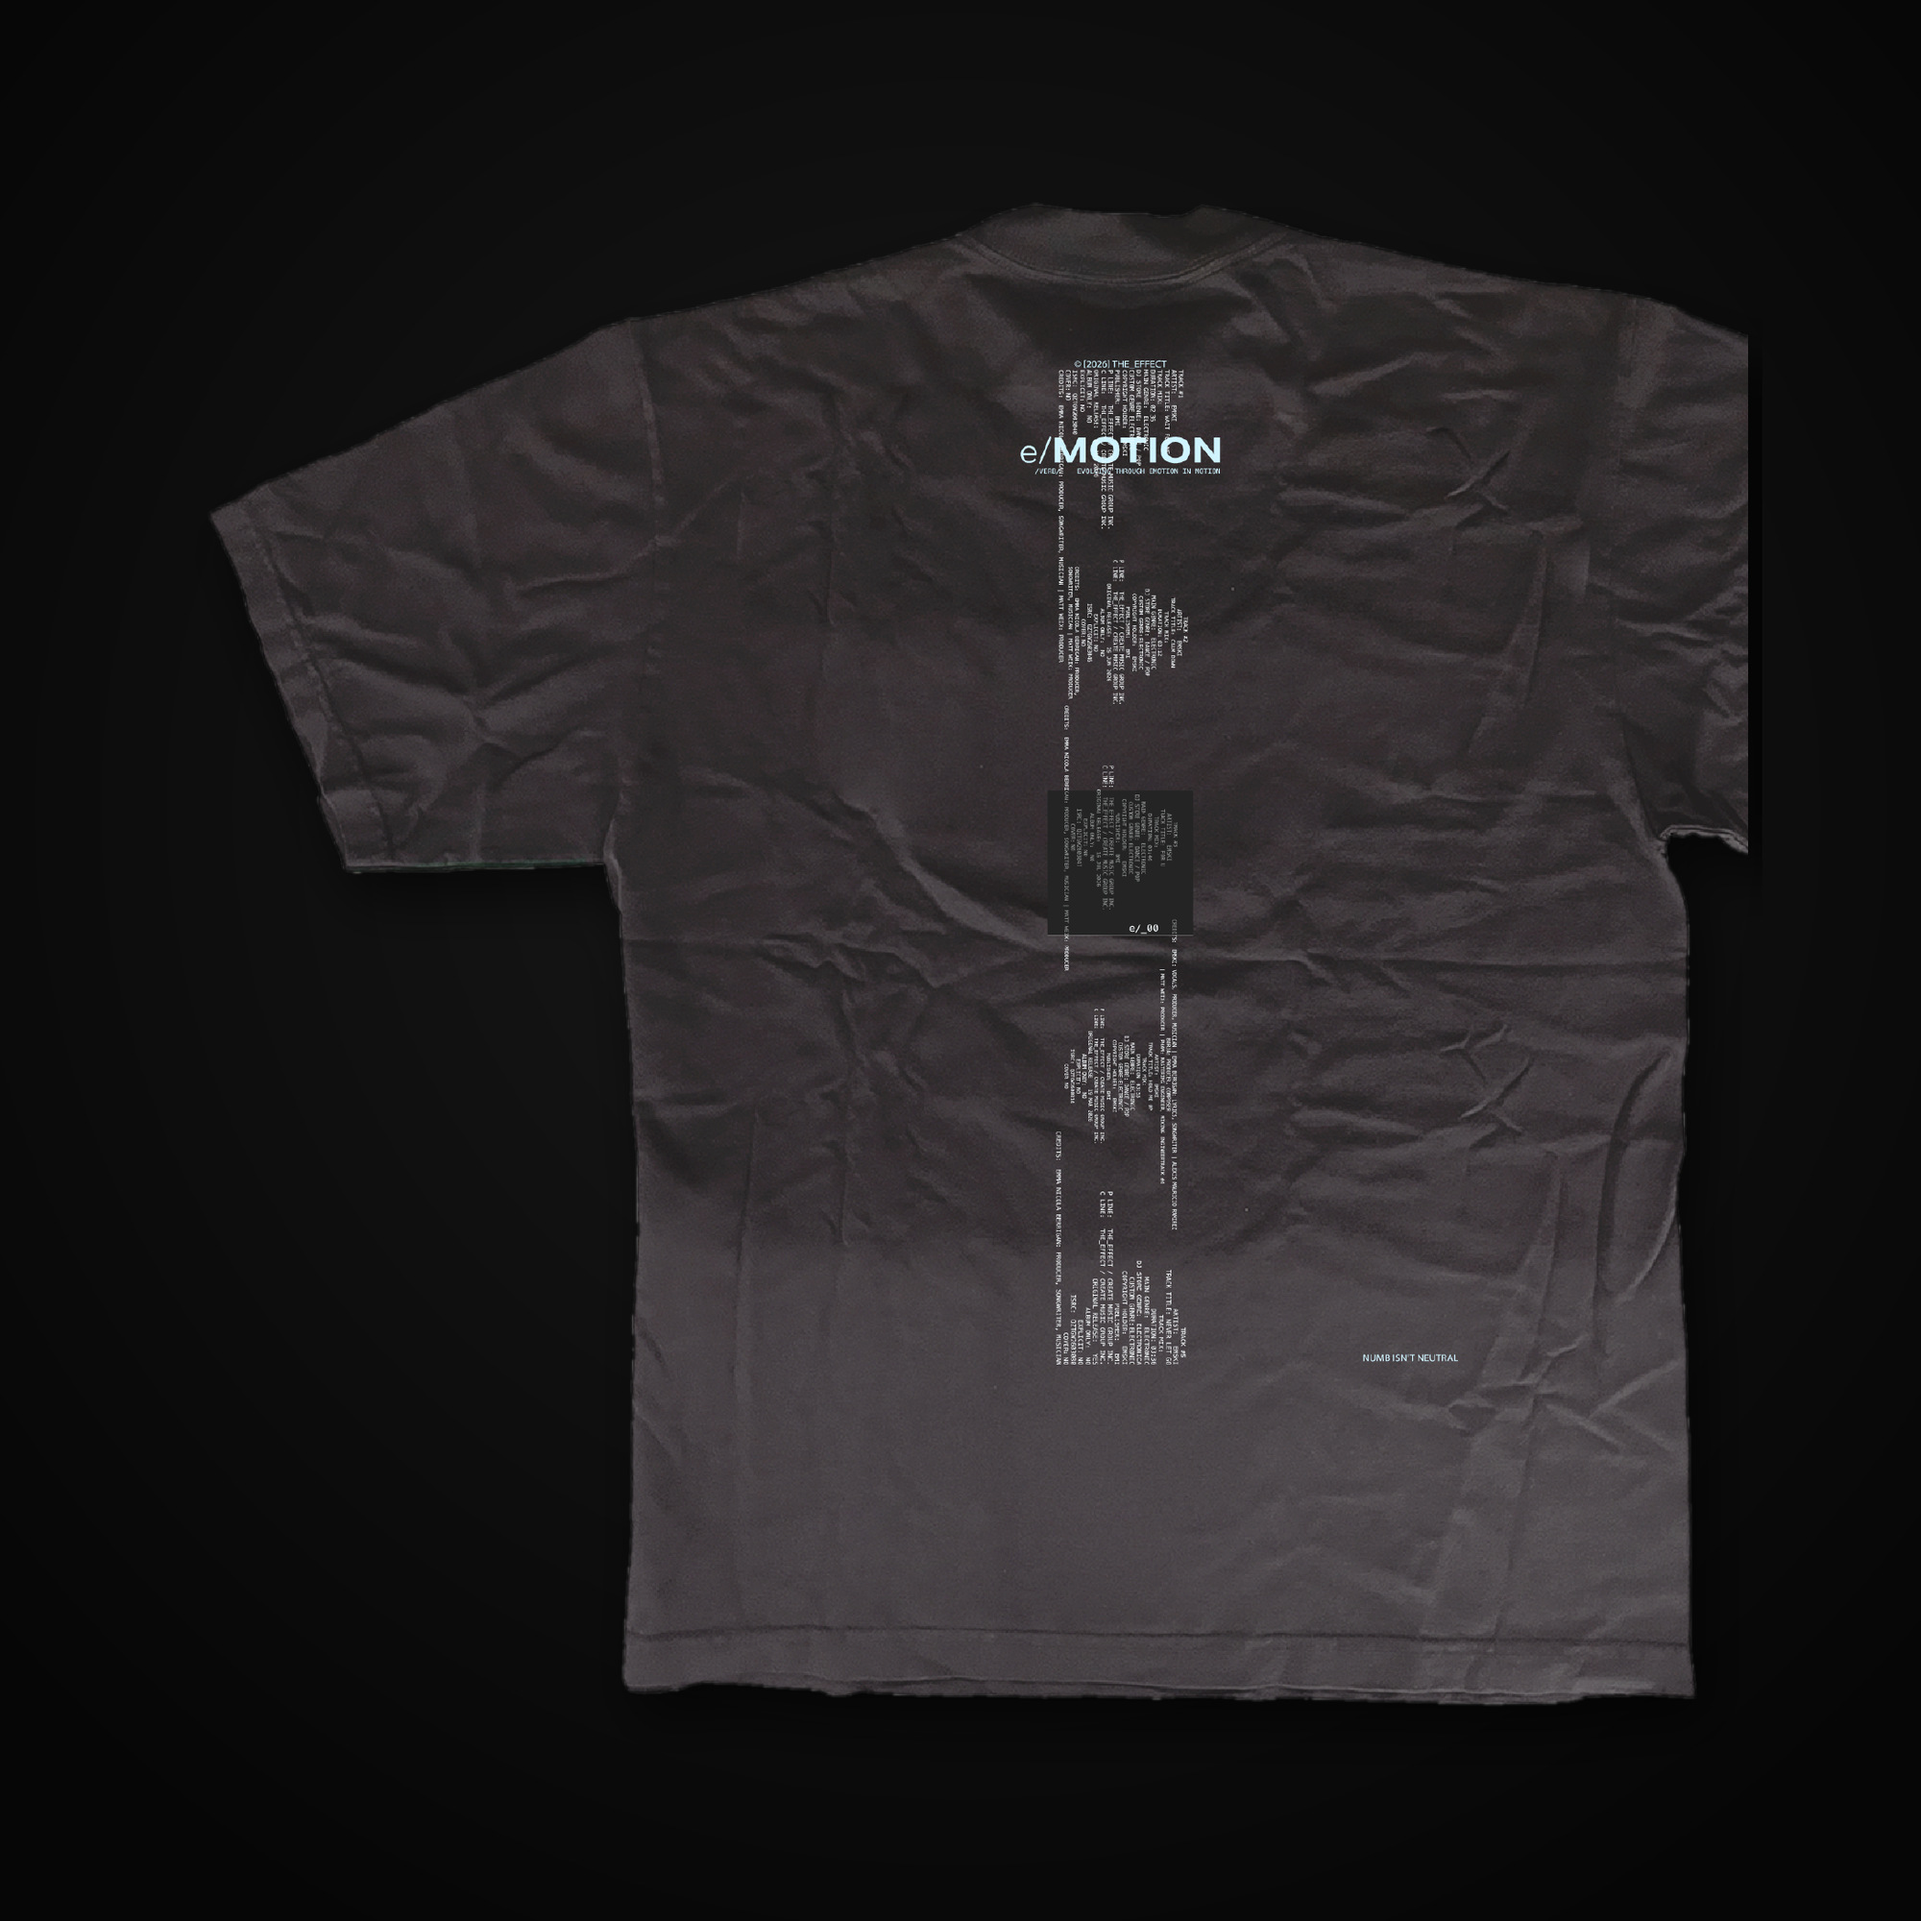
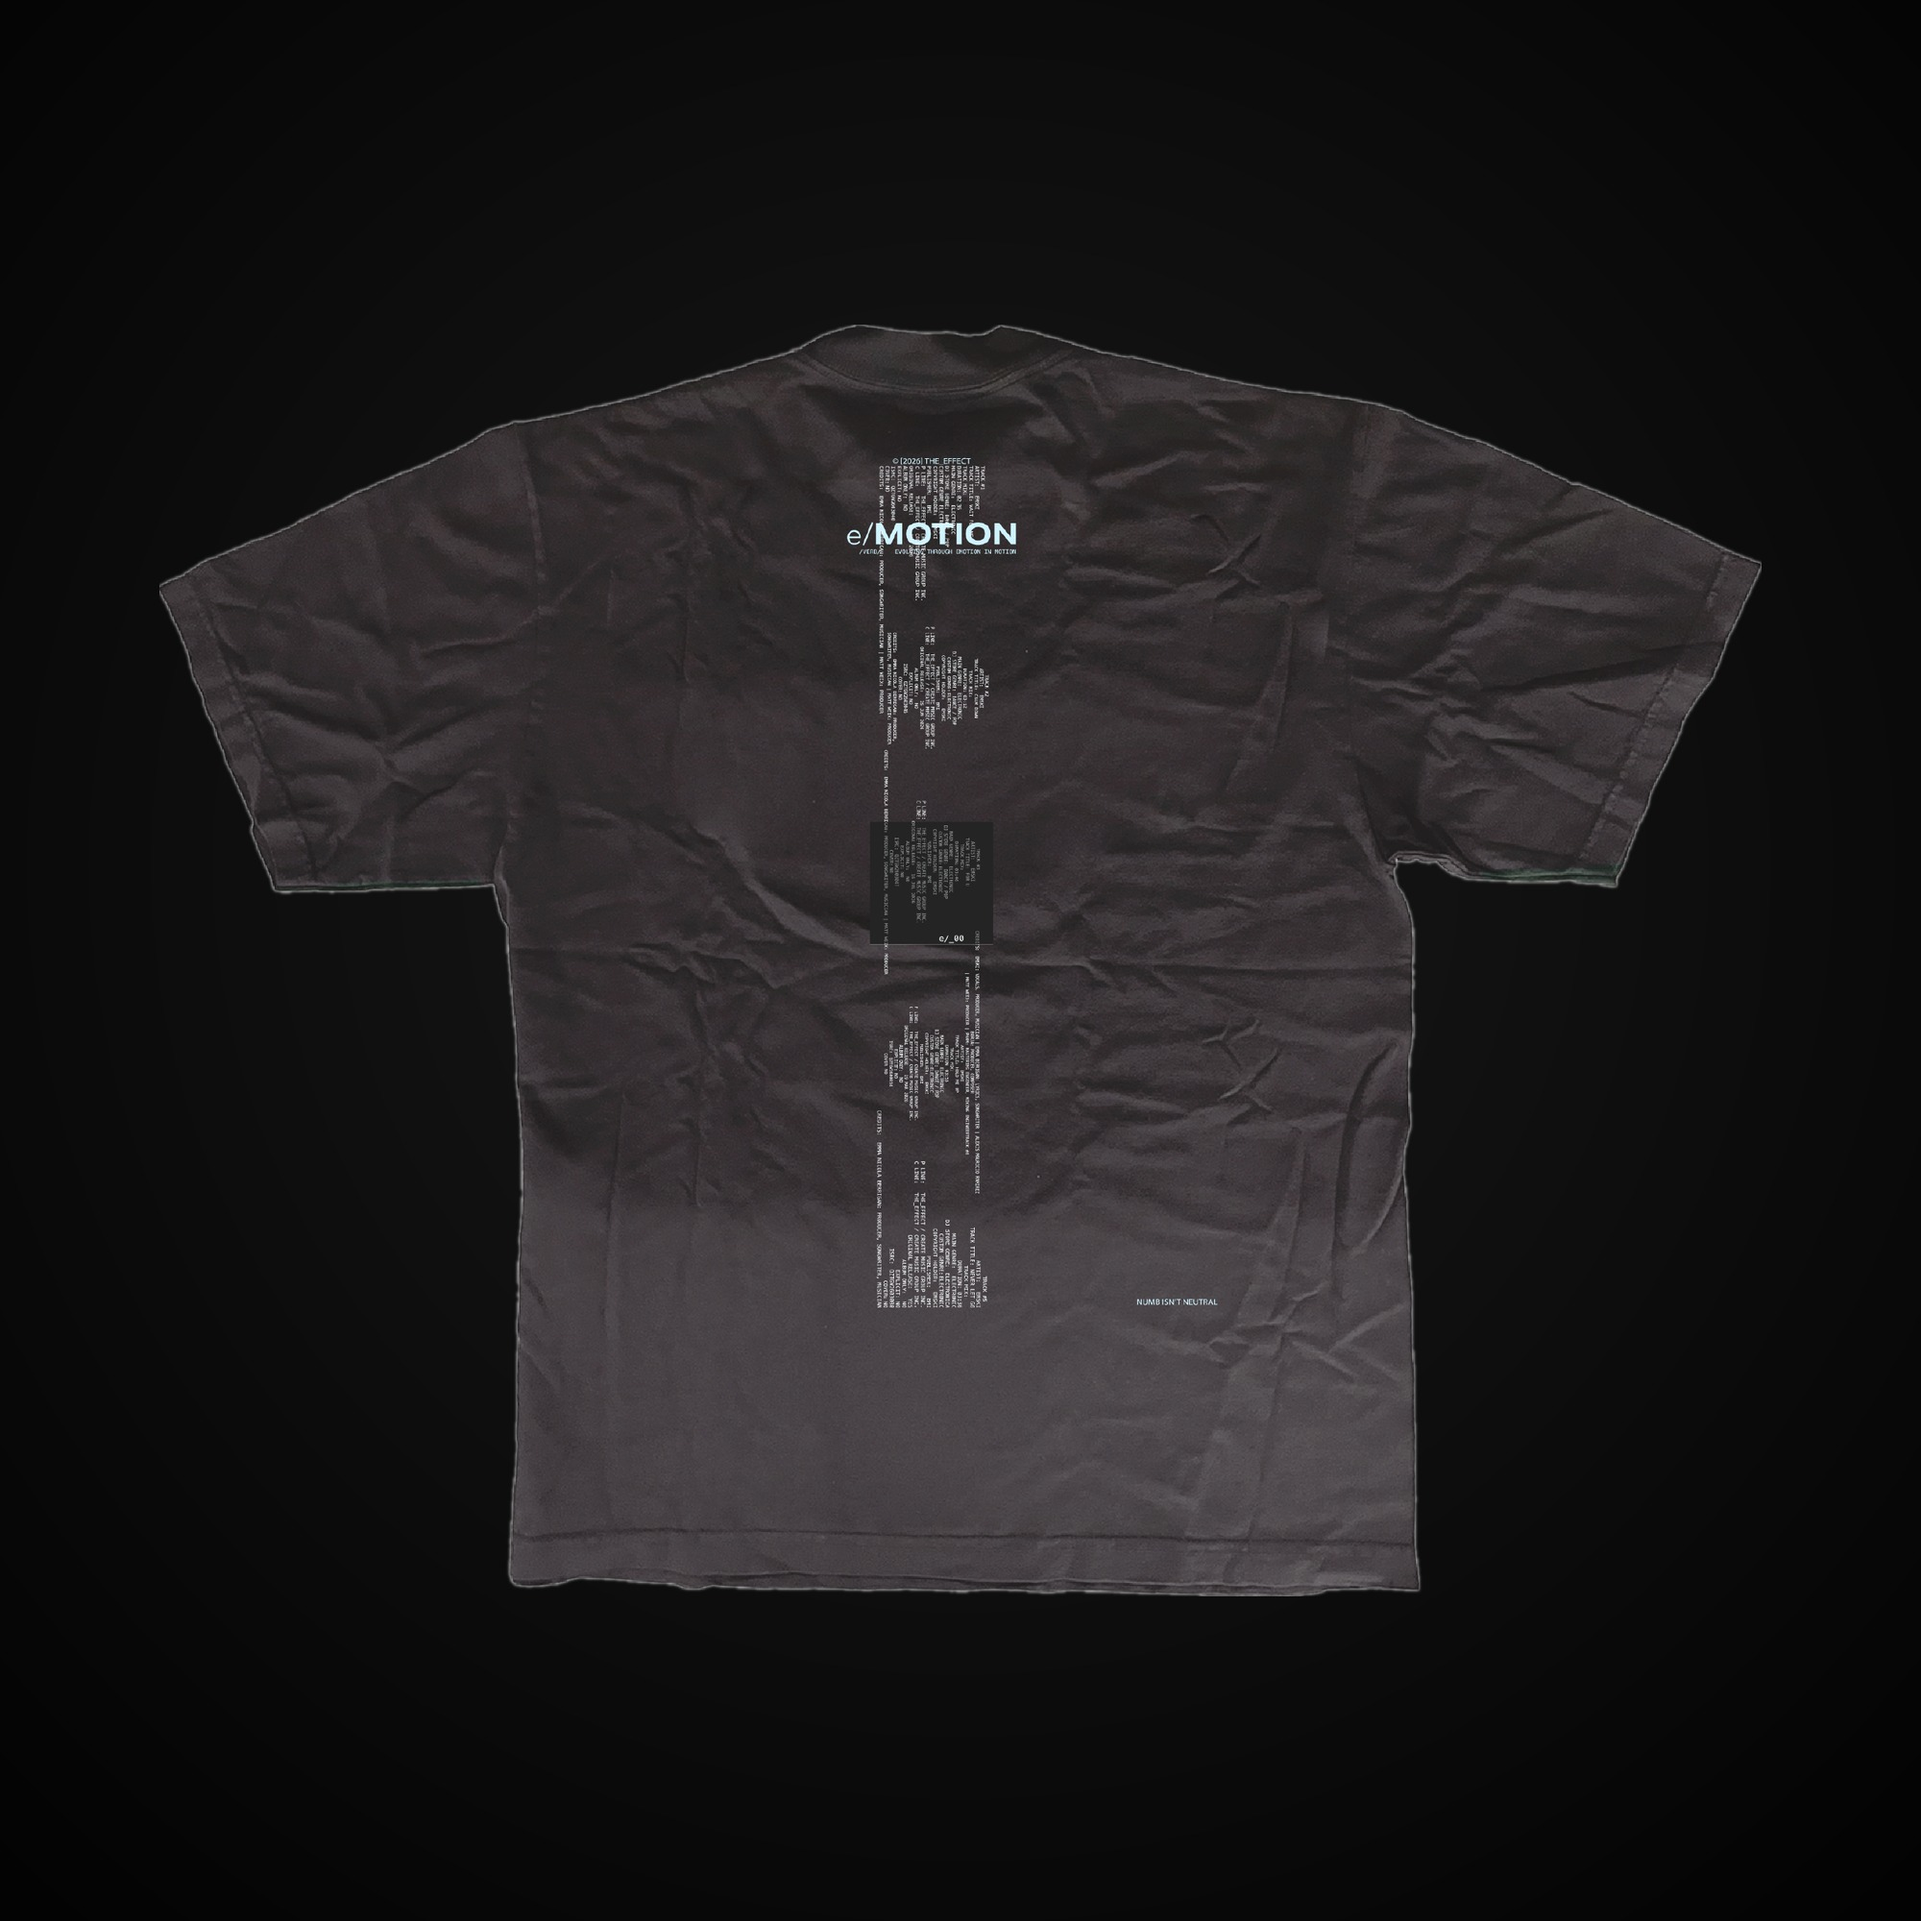
Website draft: side carousel arrows, fixed merch crop, drop tee blurb
Carousel arrows move from below the track to its middle sides, matching
the cobrahcore.com reference (bordered boxes, vertically centered on the
cards, mix-blend difference so they read over any content). The progress
hairline stays underneath on its own.

Regenerate all four Blurred Faces product shots from the Industry Print
Shop proofs. The old crop's bounds detection ran into the proof sheet's
E-swatch inset panel and sliced off the right sleeve, then padded even
margins around the truncated garment — off-center shirt, cut sleeve.
This pass masks the sheet furniture (inset panel + mockup caption)
before detection: full sleeve with the E mark, garment centered, same
dark-gradient background.

Drop the description paragraph from the product overlay — name, tagline,
price, sizes read cleaner without it. Spec bullets stay.

diff --git a/src/components/website-draft/EmskiSiteV2.jsx b/src/components/website-draft/EmskiSiteV2.jsx
@@ -439,41 +439,45 @@ function Carousel({ label, children }) {
 
   return (
     <div className="wv-carousel">
-      <div
-        className="wv-carousel__track"
-        ref={trackRef}
-        aria-label={label}
-        onScroll={update}
-        onPointerDown={onPointerDown}
-        onPointerMove={onPointerMove}
-        onPointerUp={endDrag}
-        onPointerCancel={endDrag}
-        onClickCapture={onClickCapture}
-      >
-        {children}
-      </div>
-      <div className="wv-carousel__nav">
+      {/* Window wraps the track so the side arrows center on it (COBRAH:
+          arrows flank the cards mid-height, progress hairline below). */}
+      <div className="wv-carousel__window">
+        <div
+          className="wv-carousel__track"
+          ref={trackRef}
+          aria-label={label}
+          onScroll={update}
+          onPointerDown={onPointerDown}
+          onPointerMove={onPointerMove}
+          onPointerUp={endDrag}
+          onPointerCancel={endDrag}
+          onClickCapture={onClickCapture}
+        >
+          {children}
+        </div>
         <button
           type="button"
-          className="wv-carousel__btn"
+          className="wv-carousel__btn wv-carousel__btn--prev"
           aria-label="Previous"
           disabled={pos.atStart}
           onClick={() => scrollByPage(-1)}
         >
           ←
         </button>
-        <div className="wv-carousel__progress" aria-hidden="true">
-          <span style={{ transform: `scaleX(${pos.progress})` }} />
-        </div>
         <button
           type="button"
-          className="wv-carousel__btn"
+          className="wv-carousel__btn wv-carousel__btn--next"
           aria-label="Next"
           disabled={pos.atEnd}
           onClick={() => scrollByPage(1)}
         >
           →
         </button>
+      </div>
+      <div className="wv-carousel__nav">
+        <div className="wv-carousel__progress" aria-hidden="true">
+          <span style={{ transform: `scaleX(${pos.progress})` }} />
+        </div>
       </div>
     </div>
   );

diff --git a/src/components/website-draft/website-v2.css b/src/components/website-draft/website-v2.css
@@ -296,30 +296,38 @@
   transform: scaleX(0);
   transition: transform 160ms linear;
 }
-/* COBRAH-style nav: compact bordered arrow boxes flanking a hairline */
+/* COBRAH-style nav: bordered arrow boxes overlay the track at its middle
+   sides (blend-difference keeps them legible over any card); a hairline
+   progress bar runs alone underneath. */
+.wv-carousel__window {
+  position: relative;
+}
 .wv-carousel__nav {
-  display: flex;
-  align-items: center;
-  gap: clamp(18px, 3vw, 32px);
-  margin-top: 30px;
+  margin-top: 26px;
 }
 /* .wv-root prefix outranks the `.wv-root button { font: inherit }` reset */
 .wv-root .wv-carousel__btn {
-  flex: 0 0 clamp(110px, 13vw, 160px);
-  height: 46px;
-  border: 1px solid rgba(255, 255, 255, 0.35);
+  position: absolute;
+  top: 50%;
+  transform: translateY(-50%);
+  z-index: 2;
+  width: clamp(72px, 10vw, 142px);
+  height: 45px;
+  border: 1px solid rgba(255, 255, 255, 0.55);
   color: var(--wv-fg);
   font-size: 24px;
   font-weight: 300;
   display: inline-flex;
   align-items: center;
   justify-content: center;
-  transition: border-color var(--wv-dur) var(--wv-ease), color var(--wv-dur) var(--wv-ease), background var(--wv-dur) var(--wv-ease);
+  mix-blend-mode: difference;
+  transition: border-color var(--wv-dur) var(--wv-ease), color var(--wv-dur) var(--wv-ease), opacity var(--wv-dur) var(--wv-ease);
 }
+.wv-carousel__btn--prev { left: clamp(10px, 2vw, 28px); }
+.wv-carousel__btn--next { right: clamp(10px, 2vw, 28px); }
 .wv-carousel__btn:hover {
   border-color: var(--wv-fg);
   color: var(--wv-fg);
-  background: rgba(255, 255, 255, 0.05);
 }
 .wv-carousel__btn:disabled {
   opacity: 0.28;

diff --git a/src/components/website-draft/siteContent.js b/src/components/website-draft/siteContent.js
@@ -234,8 +234,6 @@ export const MERCH_ITEMS = [
     checkoutUrl: "https://square.link/u/GbX8Ntbd",
     url: VAULT_URL,
     tagline: "Numb isn't neutral",
-    description:
-      "Oversized black tee from the E/MOTION run. Front carries the Blurred Faces print in cyan and white; the back runs the e/MOTION column type down the spine, with the E mark on the left sleeve.",
     details: [
       "Shaka Wear 6.5oz retro garment dye, Shadow",
       "Oversized fit, 3-colour screen print",
